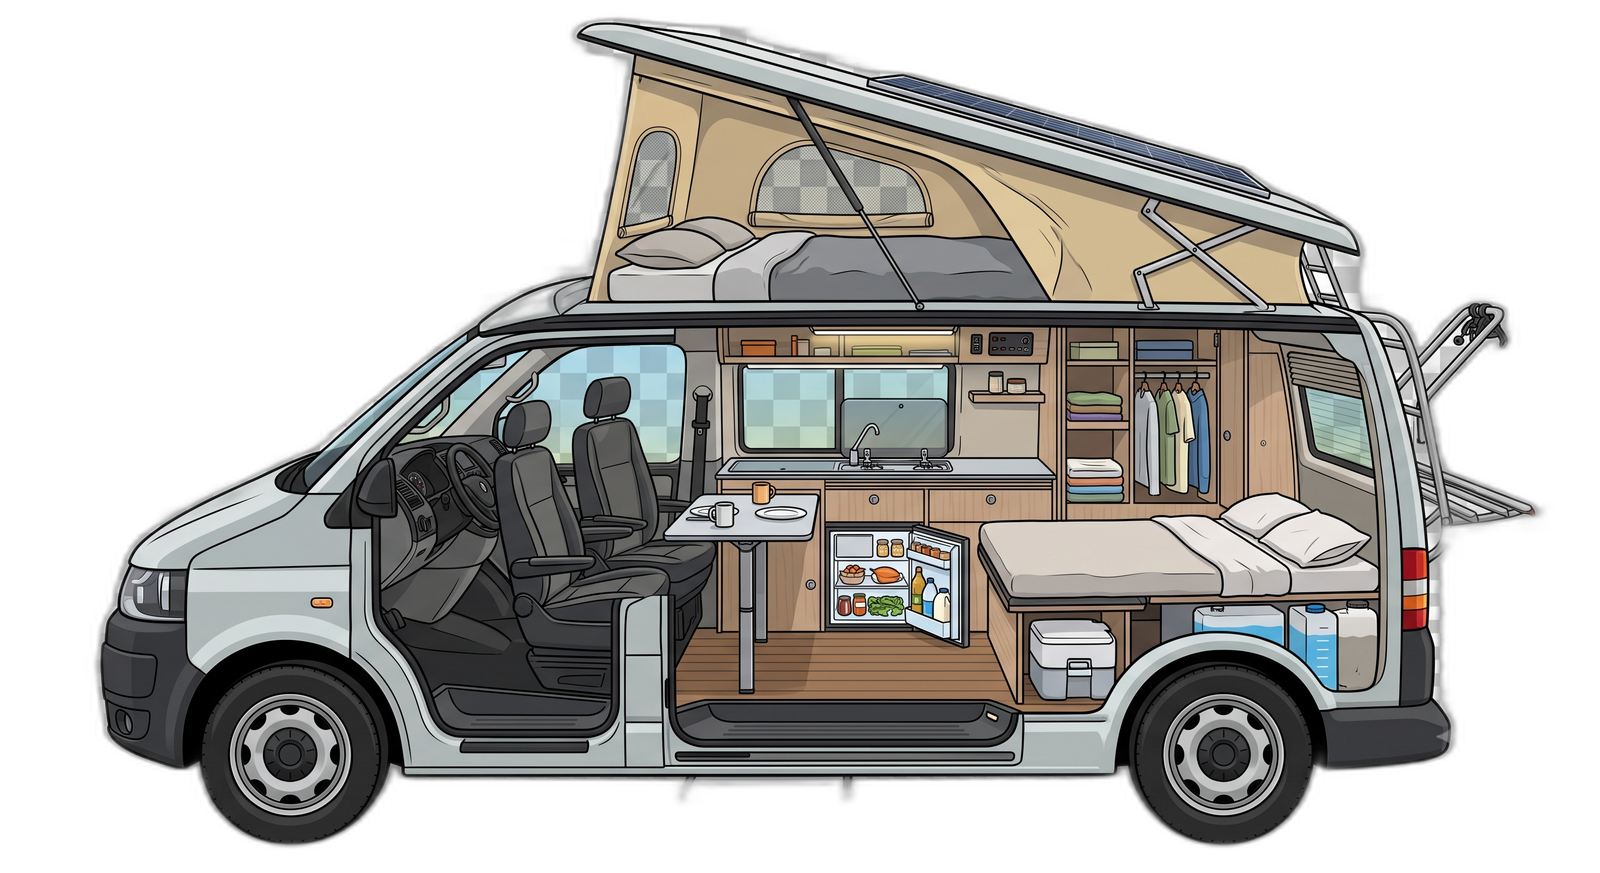
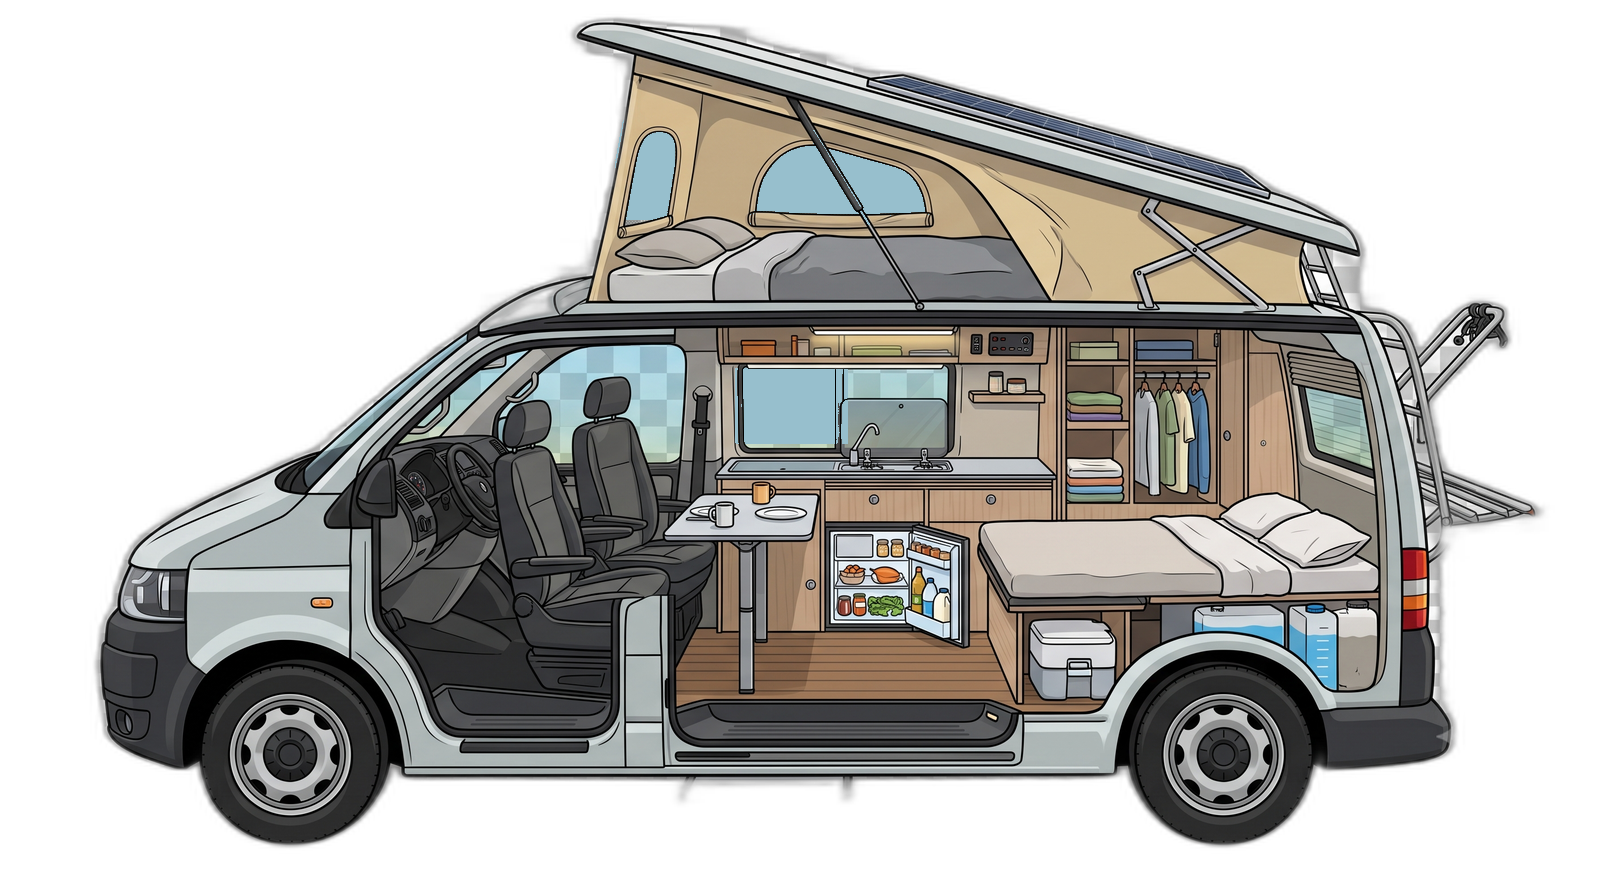
Fix fake window transparency, drop unused exterieur zone
Replaces the baked-in checkerboard placeholder in the roof pop-top
windows and kitchen window with actual glass-blue fill, and removes
the mostly-empty "Extérieur" zone from the van view. Existing
inventory items tagged exterieur are migrated to rangement so
nothing is lost.

Changed region(s): [[0.4688, 0.1546, 0.5938, 0.2474], [0.4375, 0.4021, 0.5312, 0.5258], [0.375, 0.1546, 0.4375, 0.2474]]

diff --git a/app/components/zones.js b/app/components/zones.js
@@ -7,7 +7,6 @@ export const ZONES = [
   { id: 'gaz', label: 'Liquides', x: 80.6, y: 68.4, w: 6.25, h: 11.2 },
   { id: 'eclairage', label: 'Éclairage', x: 45.6, y: 34.9, w: 15.9, h: 5.7 },
   { id: 'rangement', label: 'Rangement', x: 71.25, y: 37.8, w: 9.4, h: 19.5 },
-  { id: 'exterieur', label: 'Extérieur', x: 71.9, y: 0, w: 26.9, h: 34.4 },
 ];
 
 export const ZONE_LABELS = Object.fromEntries(ZONES.map((z) => [z.id, z.label]));